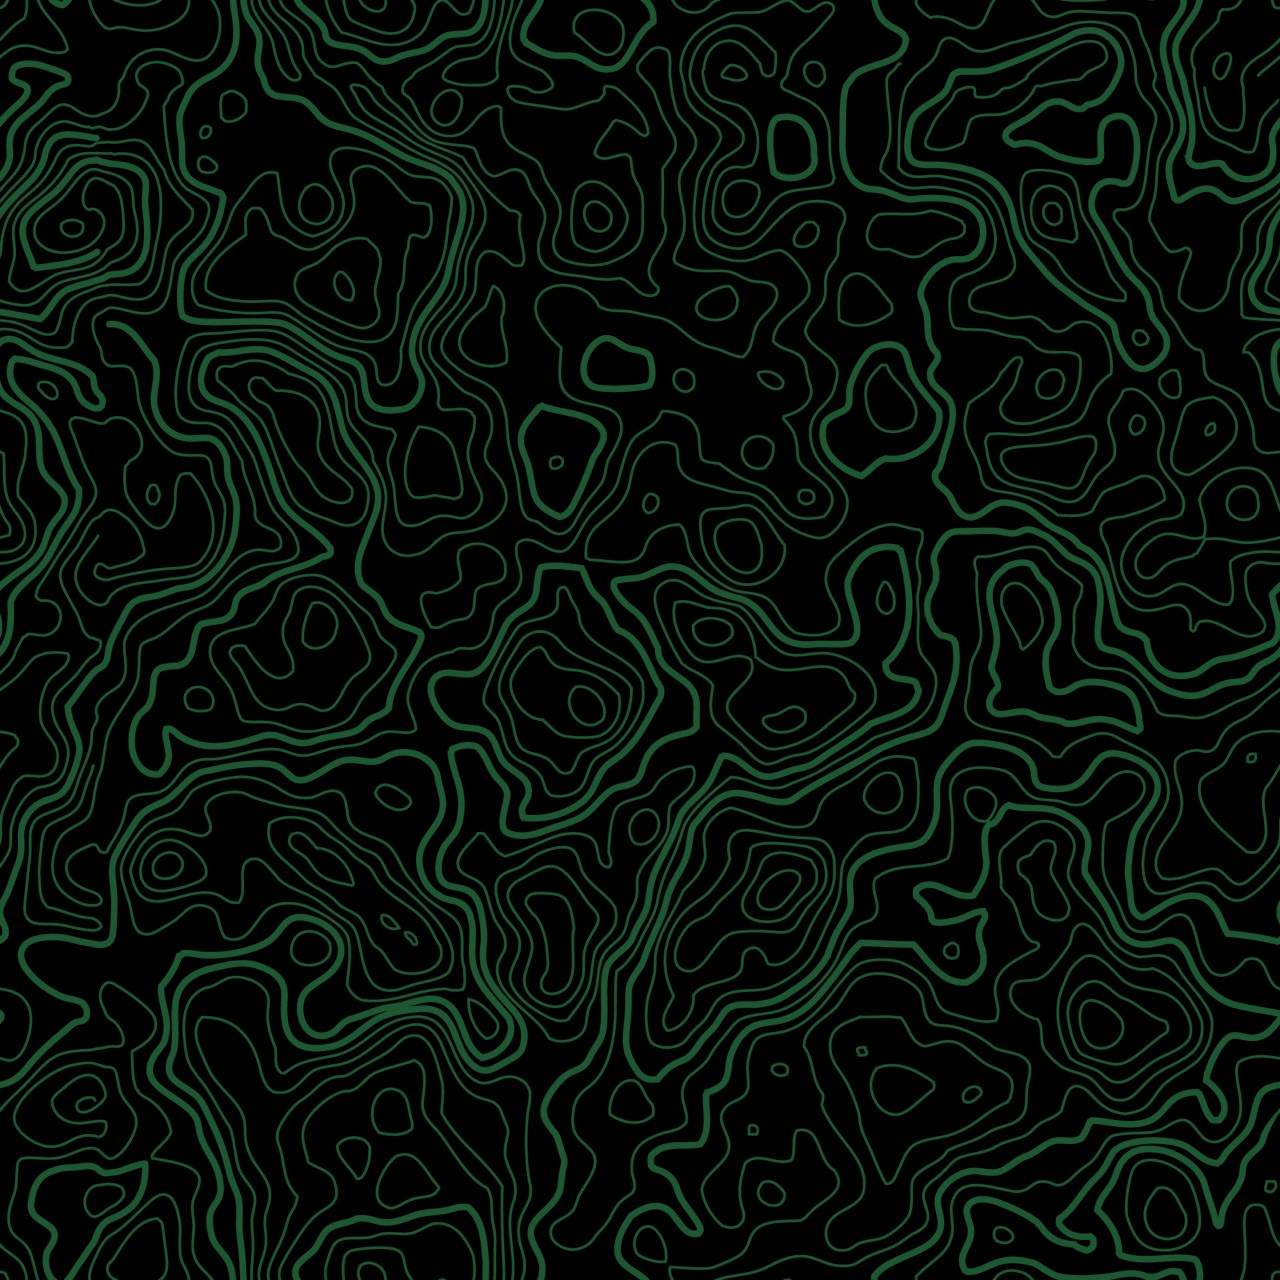
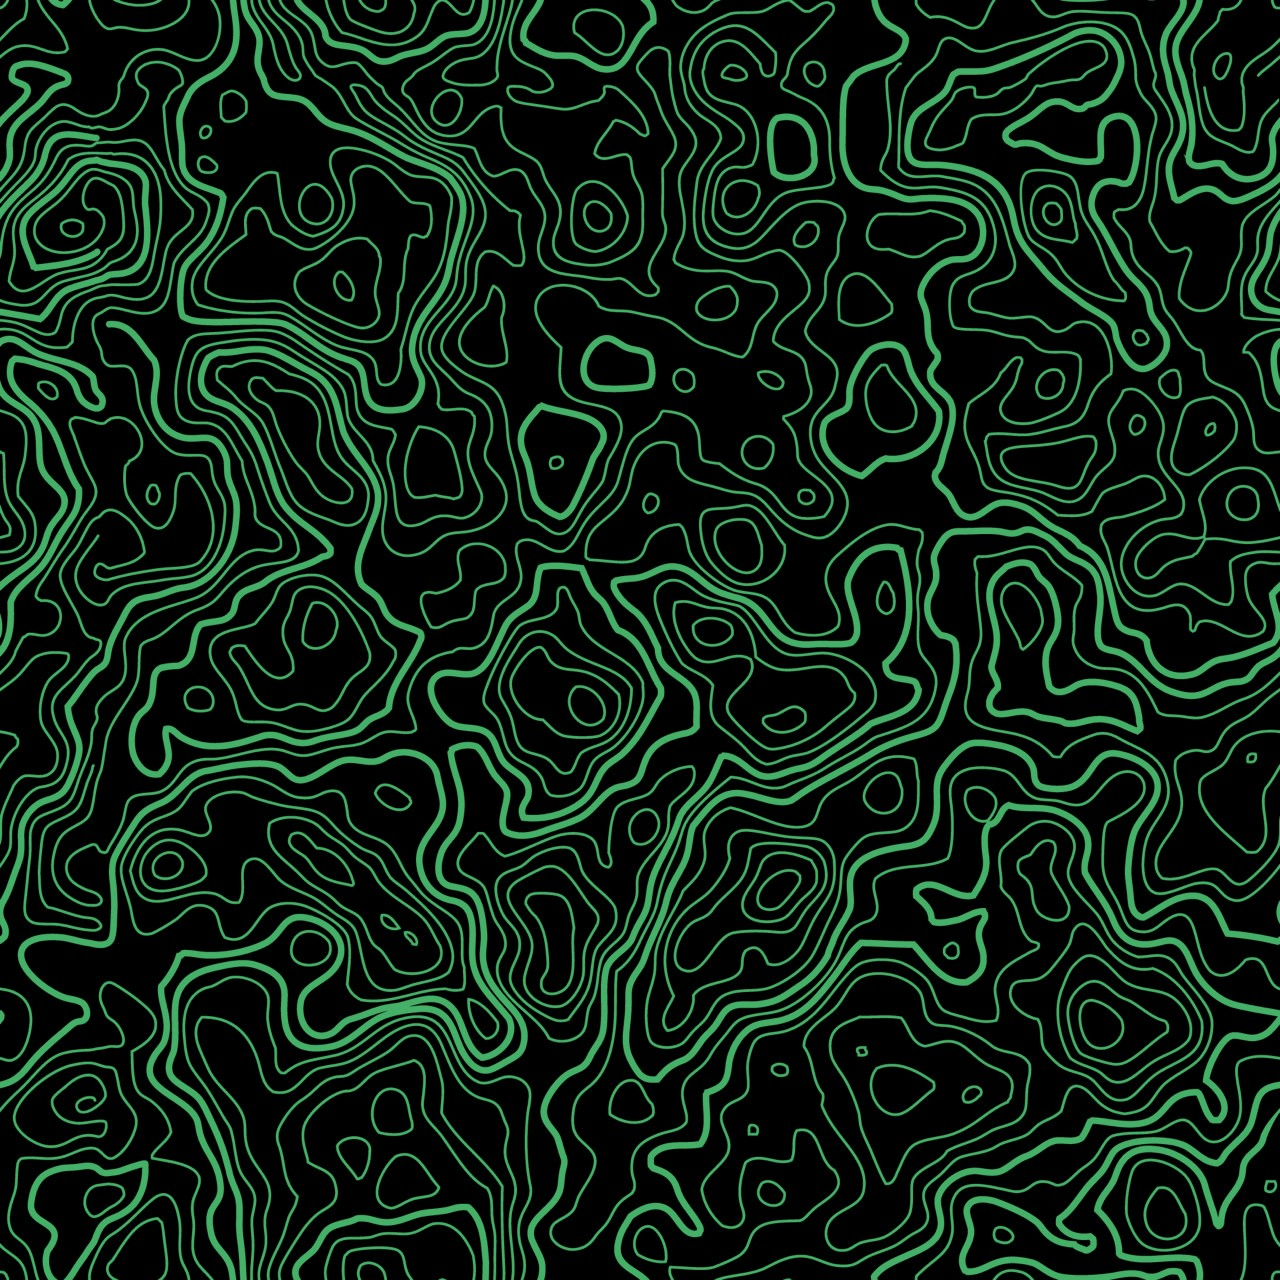
Floating glow spots animation - subtle traveling highlights on topo lines

Changed region(s): [[0.0, 0.0, 1.0, 1.0]]

diff --git a/demo/index.html b/demo/index.html
@@ -15,9 +15,27 @@
             position: relative;
         }
         
-        @keyframes line-flow {
-            0% { -webkit-mask-position: -200% -200%; mask-position: -200% -200%; }
-            100% { -webkit-mask-position: 200% 200%; mask-position: 200% 200%; }
+        @keyframes glow-drift-1 {
+            0%   { top: -30%; left: -30%; }
+            25%  { top: 20%; left: 70%; }
+            50%  { top: 60%; left: 40%; }
+            75%  { top: 30%; left: -10%; }
+            100% { top: -30%; left: -30%; }
+        }
+        
+        @keyframes glow-drift-2 {
+            0%   { top: 80%; left: 90%; }
+            25%  { top: 40%; left: 20%; }
+            50%  { top: -10%; left: 50%; }
+            75%  { top: 50%; left: 80%; }
+            100% { top: 80%; left: 90%; }
+        }
+        
+        @keyframes glow-drift-3 {
+            0%   { top: 50%; left: -20%; }
+            33%  { top: -20%; left: 60%; }
+            66%  { top: 70%; left: 80%; }
+            100% { top: 50%; left: -20%; }
         }
         
         body::before {
@@ -30,19 +48,32 @@
             z-index: -2;
         }
         
-        body::after {
-            content: '';
+        .glow-spot {
             position: fixed;
-            top: 0; left: 0; right: 0; bottom: 0;
+            border-radius: 50%;
             background-image: url('topo-glow.jpg');
             background-size: cover;
+            background-attachment: fixed;
             background-position: center;
-            -webkit-mask-image: linear-gradient(135deg, transparent 25%, rgba(255,255,255,0.8) 45%, rgba(255,255,255,1) 50%, rgba(255,255,255,0.8) 55%, transparent 75%);
-            mask-image: linear-gradient(135deg, transparent 25%, rgba(255,255,255,0.8) 45%, rgba(255,255,255,1) 50%, rgba(255,255,255,0.8) 55%, transparent 75%);
-            -webkit-mask-size: 200% 200%;
-            mask-size: 200% 200%;
-            animation: line-flow 8s ease-in-out infinite;
+            -webkit-mask-image: radial-gradient(ellipse at center, rgba(255,255,255,0.6) 0%, transparent 70%);
+            mask-image: radial-gradient(ellipse at center, rgba(255,255,255,0.6) 0%, transparent 70%);
             z-index: -1;
+            pointer-events: none;
+        }
+        
+        .glow-spot-1 {
+            width: 60vmax; height: 60vmax;
+            animation: glow-drift-1 25s ease-in-out infinite;
+        }
+        
+        .glow-spot-2 {
+            width: 50vmax; height: 50vmax;
+            animation: glow-drift-2 30s ease-in-out infinite;
+        }
+        
+        .glow-spot-3 {
+            width: 45vmax; height: 45vmax;
+            animation: glow-drift-3 35s ease-in-out infinite;
         }
         
         .container {
@@ -592,6 +623,9 @@
     </style>
 </head>
 <body>
+    <div class="glow-spot glow-spot-1"></div>
+    <div class="glow-spot glow-spot-2"></div>
+    <div class="glow-spot glow-spot-3"></div>
     <div class="container">
         <header>
             <h1>🎯 RegReady</h1>

diff --git a/index.html b/index.html
@@ -12,9 +12,14 @@
     :root { --green: #4ade80; --bg: #0a0a0a; --text: #e5e5e5; --muted: #a3a3a3; }
     html { scroll-behavior: smooth; }
     body { font-family: 'Inter', -apple-system, sans-serif; background: var(--bg); color: var(--text); line-height: 1.6; }
-    @keyframes line-flow { 0% { -webkit-mask-position: -200% -200%; mask-position: -200% -200%; } 100% { -webkit-mask-position: 200% 200%; mask-position: 200% 200%; } }
+    @keyframes glow-drift-1 { 0% { top:-30%;left:-30%; } 25% { top:20%;left:70%; } 50% { top:60%;left:40%; } 75% { top:30%;left:-10%; } 100% { top:-30%;left:-30%; } }
+    @keyframes glow-drift-2 { 0% { top:80%;left:90%; } 25% { top:40%;left:20%; } 50% { top:-10%;left:50%; } 75% { top:50%;left:80%; } 100% { top:80%;left:90%; } }
+    @keyframes glow-drift-3 { 0% { top:50%;left:-20%; } 33% { top:-20%;left:60%; } 66% { top:70%;left:80%; } 100% { top:50%;left:-20%; } }
     .topo-bg { background: url('topo-pattern.jpg') center/cover fixed; position: fixed; inset: 0; z-index: -2; }
-    .topo-glow { background: url('topo-glow.jpg') center/cover fixed; position: fixed; inset: 0; z-index: -1; -webkit-mask-image: linear-gradient(135deg, transparent 25%, rgba(255,255,255,0.8) 45%, rgba(255,255,255,1) 50%, rgba(255,255,255,0.8) 55%, transparent 75%); mask-image: linear-gradient(135deg, transparent 25%, rgba(255,255,255,0.8) 45%, rgba(255,255,255,1) 50%, rgba(255,255,255,0.8) 55%, transparent 75%); -webkit-mask-size: 200% 200%; mask-size: 200% 200%; animation: line-flow 8s ease-in-out infinite; }
+    .glow-spot { position:fixed; border-radius:50%; background:url('topo-glow.jpg') center/cover fixed; -webkit-mask-image:radial-gradient(ellipse at center,rgba(255,255,255,0.6) 0%,transparent 70%); mask-image:radial-gradient(ellipse at center,rgba(255,255,255,0.6) 0%,transparent 70%); z-index:-1; pointer-events:none; }
+    .glow-spot-1 { width:60vmax;height:60vmax; animation:glow-drift-1 25s ease-in-out infinite; }
+    .glow-spot-2 { width:50vmax;height:50vmax; animation:glow-drift-2 30s ease-in-out infinite; }
+    .glow-spot-3 { width:45vmax;height:45vmax; animation:glow-drift-3 35s ease-in-out infinite; }
     
     /* Typography */
     h1 { font-size: clamp(2.5rem, 8vw, 4.5rem); font-weight: 700; line-height: 1.1; letter-spacing: -0.02em; }
@@ -76,7 +81,9 @@
 </head>
 <body>
   <div class="topo-bg"></div>
-  <div class="topo-glow"></div>
+  <div class="glow-spot glow-spot-1"></div>
+  <div class="glow-spot glow-spot-2"></div>
+  <div class="glow-spot glow-spot-3"></div>
   
   <section class="hero">
     <div class="fade-up">
